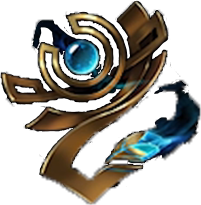
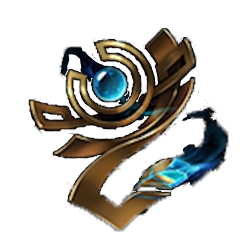
Little changes and adding the honor 5 image

diff --git a/pages/LOL-Profile/Profile-Resume/resume.html b/pages/LOL-Profile/Profile-Resume/resume.html
@@ -73,7 +73,7 @@
             <div class="col footer">
                 <p>HONOR</p>
                 <p>NIVEL <lvl>3</lvl></p>
-                <img src="./images/honor3.png" id="honorImage">
+                <img src="./images/honor5.png" id="honorImage">
             </div>
             <div class="col footer">
                 <p>PUNTUACION DE MAESTRIA</p>

diff --git a/pages/LOL-Profile/Profile-Resume/resume-styles.css b/pages/LOL-Profile/Profile-Resume/resume-styles.css
@@ -140,7 +140,7 @@ body{
     position: relative;
     z-index: 1;
     background-color: rgba(114, 114, 114, 0.582);
-    margin: 1rem .4rem 2rem 1rem;
+    margin: 2rem .4rem 2rem 3rem;
     text-align: center;
     border-style: groove;
     padding: 2rem 1rem;
